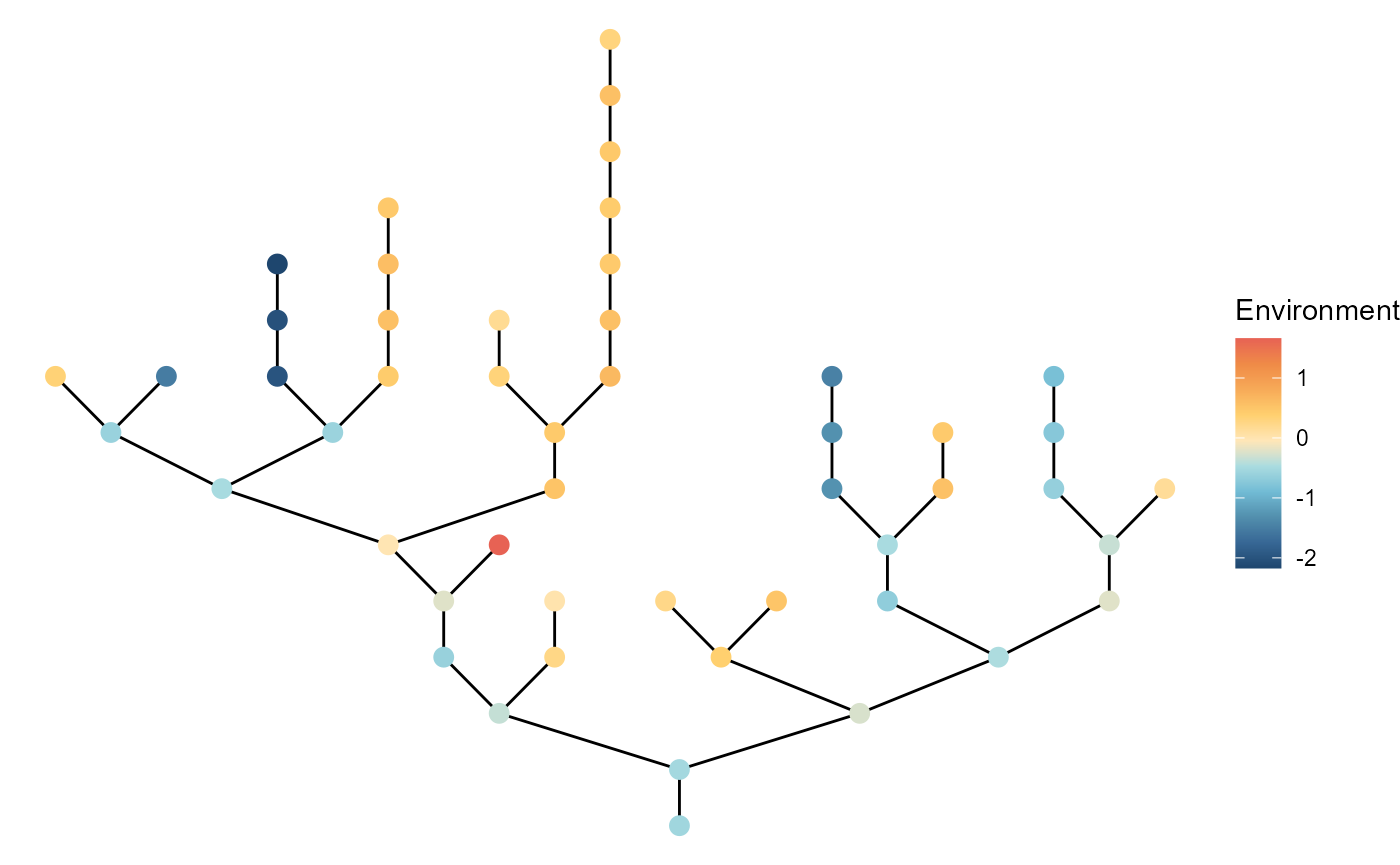
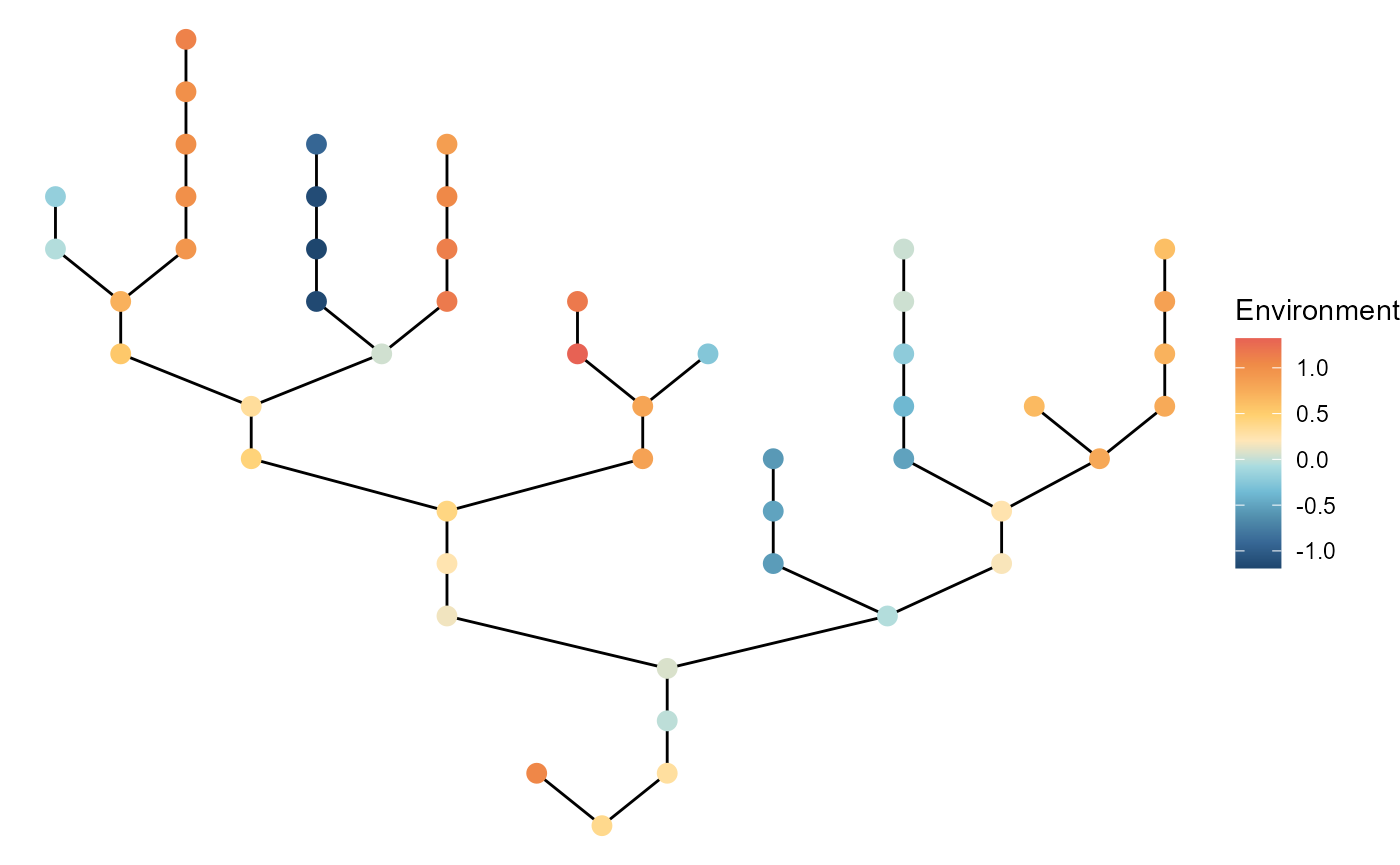
pkgdown

diff --git a/docs/articles/mcsim.html b/docs/articles/mcsim.html
@@ -204,18 +204,18 @@ species that are randomly chosen:</p>
 <code class="sourceCode R"><span><span class="va">mc</span></span>
 <span><span class="co">#&gt; $df_dynamics</span></span>
 <span><span class="co">#&gt; <span style="color: #949494;"># A tibble: 25,000 × 9</span></span></span>
-<span><span class="co">#&gt;    timestep patch_id mean_env     env carrying…¹ species niche…²    r_xt abund…³</span></span>
-<span><span class="co">#&gt;       <span style="color: #949494; font-style: italic;">&lt;dbl&gt;</span>    <span style="color: #949494; font-style: italic;">&lt;dbl&gt;</span>    <span style="color: #949494; font-style: italic;">&lt;dbl&gt;</span>   <span style="color: #949494; font-style: italic;">&lt;dbl&gt;</span>      <span style="color: #949494; font-style: italic;">&lt;dbl&gt;</span>   <span style="color: #949494; font-style: italic;">&lt;dbl&gt;</span>   <span style="color: #949494; font-style: italic;">&lt;dbl&gt;</span>   <span style="color: #949494; font-style: italic;">&lt;dbl&gt;</span>   <span style="color: #949494; font-style: italic;">&lt;dbl&gt;</span></span></span>
-<span><span class="co">#&gt; <span style="color: #BCBCBC;"> 1</span>        1        1        0  0.031<span style="text-decoration: underline;">2</span>        100       1  -<span style="color: #BB0000;">0.683</span> 2.96<span style="color: #949494;">e</span><span style="color: #BB0000;">-1</span>       0</span></span>
-<span><span class="co">#&gt; <span style="color: #BCBCBC;"> 2</span>        1        1        0  0.031<span style="text-decoration: underline;">2</span>        100       2   0.980 3.10<span style="color: #949494;">e</span><span style="color: #BB0000;">-4</span>       0</span></span>
-<span><span class="co">#&gt; <span style="color: #BCBCBC;"> 3</span>        1        1        0  0.031<span style="text-decoration: underline;">2</span>        100       3   0.437 2.62<span style="color: #949494;">e</span>+0      60</span></span>
-<span><span class="co">#&gt; <span style="color: #BCBCBC;"> 4</span>        1        1        0  0.031<span style="text-decoration: underline;">2</span>        100       4  -<span style="color: #BB0000;">0.571</span> 1.28<span style="color: #949494;">e</span>+0       3</span></span>
-<span><span class="co">#&gt; <span style="color: #BCBCBC;"> 5</span>        1        1        0  0.031<span style="text-decoration: underline;">2</span>        100       5   0.827 8.09<span style="color: #949494;">e</span><span style="color: #BB0000;">-1</span>       0</span></span>
-<span><span class="co">#&gt; <span style="color: #BCBCBC;"> 6</span>        1        2        0 -<span style="color: #BB0000;">0.054</span><span style="color: #BB0000; text-decoration: underline;">5</span>        100       1  -<span style="color: #BB0000;">0.683</span> 5.27<span style="color: #949494;">e</span><span style="color: #BB0000;">-1</span>       0</span></span>
-<span><span class="co">#&gt; <span style="color: #BCBCBC;"> 7</span>        1        2        0 -<span style="color: #BB0000;">0.054</span><span style="color: #BB0000; text-decoration: underline;">5</span>        100       2   0.980 5.21<span style="color: #949494;">e</span><span style="color: #BB0000;">-5</span>       0</span></span>
-<span><span class="co">#&gt; <span style="color: #BCBCBC;"> 8</span>        1        2        0 -<span style="color: #BB0000;">0.054</span><span style="color: #BB0000; text-decoration: underline;">5</span>        100       3   0.437 2.31<span style="color: #949494;">e</span>+0      39</span></span>
-<span><span class="co">#&gt; <span style="color: #BCBCBC;"> 9</span>        1        2        0 -<span style="color: #BB0000;">0.054</span><span style="color: #BB0000; text-decoration: underline;">5</span>        100       4  -<span style="color: #BB0000;">0.571</span> 1.69<span style="color: #949494;">e</span>+0       0</span></span>
-<span><span class="co">#&gt; <span style="color: #BCBCBC;">10</span>        1        2        0 -<span style="color: #BB0000;">0.054</span><span style="color: #BB0000; text-decoration: underline;">5</span>        100       5   0.827 5.76<span style="color: #949494;">e</span><span style="color: #BB0000;">-1</span>       0</span></span>
+<span><span class="co">#&gt;    timestep patch_id mean_env    env carrying_…¹ species niche…²    r_xt abund…³</span></span>
+<span><span class="co">#&gt;       <span style="color: #949494; font-style: italic;">&lt;dbl&gt;</span>    <span style="color: #949494; font-style: italic;">&lt;dbl&gt;</span>    <span style="color: #949494; font-style: italic;">&lt;dbl&gt;</span>  <span style="color: #949494; font-style: italic;">&lt;dbl&gt;</span>       <span style="color: #949494; font-style: italic;">&lt;dbl&gt;</span>   <span style="color: #949494; font-style: italic;">&lt;dbl&gt;</span>   <span style="color: #949494; font-style: italic;">&lt;dbl&gt;</span>   <span style="color: #949494; font-style: italic;">&lt;dbl&gt;</span>   <span style="color: #949494; font-style: italic;">&lt;dbl&gt;</span></span></span>
+<span><span class="co">#&gt; <span style="color: #BCBCBC;"> 1</span>        1        1        0 0.019<span style="text-decoration: underline;">7</span>         100       1  -<span style="color: #BB0000;">0.374</span> 2.63         49</span></span>
+<span><span class="co">#&gt; <span style="color: #BCBCBC;"> 2</span>        1        1        0 0.019<span style="text-decoration: underline;">7</span>         100       2   0.345 2.76         50</span></span>
+<span><span class="co">#&gt; <span style="color: #BCBCBC;"> 3</span>        1        1        0 0.019<span style="text-decoration: underline;">7</span>         100       3  -<span style="color: #BB0000;">0.613</span> 2.12         25</span></span>
+<span><span class="co">#&gt; <span style="color: #BCBCBC;"> 4</span>        1        1        0 0.019<span style="text-decoration: underline;">7</span>         100       4  -<span style="color: #BB0000;">0.937</span> 1.48         11</span></span>
+<span><span class="co">#&gt; <span style="color: #BCBCBC;"> 5</span>        1        1        0 0.019<span style="text-decoration: underline;">7</span>         100       5   0.946 0.005<span style="text-decoration: underline;">23</span>       0</span></span>
+<span><span class="co">#&gt; <span style="color: #BCBCBC;"> 6</span>        1        2        0 0.061<span style="text-decoration: underline;">9</span>         100       1  -<span style="color: #BB0000;">0.374</span> 2.47         46</span></span>
+<span><span class="co">#&gt; <span style="color: #BCBCBC;"> 7</span>        1        2        0 0.061<span style="text-decoration: underline;">9</span>         100       2   0.345 2.95         64</span></span>
+<span><span class="co">#&gt; <span style="color: #BCBCBC;"> 8</span>        1        2        0 0.061<span style="text-decoration: underline;">9</span>         100       3  -<span style="color: #BB0000;">0.613</span> 2.04         21</span></span>
+<span><span class="co">#&gt; <span style="color: #BCBCBC;"> 9</span>        1        2        0 0.061<span style="text-decoration: underline;">9</span>         100       4  -<span style="color: #BB0000;">0.937</span> 1.40         13</span></span>
+<span><span class="co">#&gt; <span style="color: #BCBCBC;">10</span>        1        2        0 0.061<span style="text-decoration: underline;">9</span>         100       5   0.946 0.009<span style="text-decoration: underline;">41</span>       0</span></span>
 <span><span class="co">#&gt; <span style="color: #949494;"># … with 24,990 more rows, and abbreviated variable names ¹carrying_capacity,</span></span></span>
 <span><span class="co">#&gt; <span style="color: #949494;">#   ²niche_optim, ³abundance</span></span></span>
 <span><span class="co">#&gt; </span></span>
@@ -223,45 +223,45 @@ species that are randomly chosen:</p>
 <span><span class="co">#&gt; <span style="color: #949494;"># A tibble: 5 × 6</span></span></span>
 <span><span class="co">#&gt;   species mean_abundance    r0 niche_optim sd_niche_width p_dispersal</span></span>
 <span><span class="co">#&gt;     <span style="color: #949494; font-style: italic;">&lt;dbl&gt;</span>          <span style="color: #949494; font-style: italic;">&lt;dbl&gt;</span> <span style="color: #949494; font-style: italic;">&lt;dbl&gt;</span>       <span style="color: #949494; font-style: italic;">&lt;dbl&gt;</span>          <span style="color: #949494; font-style: italic;">&lt;dbl&gt;</span>       <span style="color: #949494; font-style: italic;">&lt;dbl&gt;</span></span></span>
-<span><span class="co">#&gt; <span style="color: #BCBCBC;">1</span>       1           0        4      -<span style="color: #BB0000;">0.683</span>          0.316         0.1</span></span>
-<span><span class="co">#&gt; <span style="color: #BCBCBC;">2</span>       2           0        4       0.980          0.218         0.1</span></span>
-<span><span class="co">#&gt; <span style="color: #BCBCBC;">3</span>       3          48.5      4       0.437          0.549         0.1</span></span>
-<span><span class="co">#&gt; <span style="color: #BCBCBC;">4</span>       4           9.27     4      -<span style="color: #BB0000;">0.571</span>          0.415         0.1</span></span>
-<span><span class="co">#&gt; <span style="color: #BCBCBC;">5</span>       5           0        4       0.827          0.460         0.1</span></span>
+<span><span class="co">#&gt; <span style="color: #BCBCBC;">1</span>       1           55.0     4      -<span style="color: #BB0000;">0.374</span>          0.528         0.1</span></span>
+<span><span class="co">#&gt; <span style="color: #BCBCBC;">2</span>       2           53.1     4       0.345          0.437         0.1</span></span>
+<span><span class="co">#&gt; <span style="color: #BCBCBC;">3</span>       3           37.3     4      -<span style="color: #BB0000;">0.613</span>          0.834         0.1</span></span>
+<span><span class="co">#&gt; <span style="color: #BCBCBC;">4</span>       4           15.3     4      -<span style="color: #BB0000;">0.937</span>          0.852         0.1</span></span>
+<span><span class="co">#&gt; <span style="color: #BCBCBC;">5</span>       5            0       4       0.946          0.255         0.1</span></span>
 <span><span class="co">#&gt; </span></span>
 <span><span class="co">#&gt; $df_patch</span></span>
 <span><span class="co">#&gt; <span style="color: #949494;"># A tibble: 5 × 5</span></span></span>
 <span><span class="co">#&gt;   patch_id alpha_div mean_env carrying_capacity disturbance</span></span>
 <span><span class="co">#&gt;      <span style="color: #949494; font-style: italic;">&lt;dbl&gt;</span>     <span style="color: #949494; font-style: italic;">&lt;dbl&gt;</span>    <span style="color: #949494; font-style: italic;">&lt;dbl&gt;</span>             <span style="color: #949494; font-style: italic;">&lt;dbl&gt;</span>       <span style="color: #949494; font-style: italic;">&lt;dbl&gt;</span></span></span>
-<span><span class="co">#&gt; <span style="color: #BCBCBC;">1</span>        1      2.00        0               100           0</span></span>
-<span><span class="co">#&gt; <span style="color: #BCBCBC;">2</span>        2      1.68        0               100           0</span></span>
-<span><span class="co">#&gt; <span style="color: #BCBCBC;">3</span>        3      1.94        0               100           0</span></span>
-<span><span class="co">#&gt; <span style="color: #BCBCBC;">4</span>        4      1.29        0               100           0</span></span>
-<span><span class="co">#&gt; <span style="color: #BCBCBC;">5</span>        5      2.00        0               100           0</span></span>
+<span><span class="co">#&gt; <span style="color: #BCBCBC;">1</span>        1      4           0               100           0</span></span>
+<span><span class="co">#&gt; <span style="color: #BCBCBC;">2</span>        2      3.98        0               100           0</span></span>
+<span><span class="co">#&gt; <span style="color: #BCBCBC;">3</span>        3      4           0               100           0</span></span>
+<span><span class="co">#&gt; <span style="color: #BCBCBC;">4</span>        4      3.99        0               100           0</span></span>
+<span><span class="co">#&gt; <span style="color: #BCBCBC;">5</span>        5      4           0               100           0</span></span>
 <span><span class="co">#&gt; </span></span>
 <span><span class="co">#&gt; $df_diversity</span></span>
 <span><span class="co">#&gt; <span style="color: #949494;"># A tibble: 1 × 3</span></span></span>
 <span><span class="co">#&gt;   alpha_div beta_div gamma_div</span></span>
 <span><span class="co">#&gt;       <span style="color: #949494; font-style: italic;">&lt;dbl&gt;</span>    <span style="color: #949494; font-style: italic;">&lt;dbl&gt;</span>     <span style="color: #949494; font-style: italic;">&lt;dbl&gt;</span></span></span>
-<span><span class="co">#&gt; <span style="color: #BCBCBC;">1</span>      1.78     1.12         2</span></span>
+<span><span class="co">#&gt; <span style="color: #BCBCBC;">1</span>      4.00     1.00         4</span></span>
 <span><span class="co">#&gt; </span></span>
 <span><span class="co">#&gt; $df_xy_coord</span></span>
 <span><span class="co">#&gt; <span style="color: #949494;"># A tibble: 5 × 2</span></span></span>
 <span><span class="co">#&gt;   x_coord y_coord</span></span>
 <span><span class="co">#&gt;     <span style="color: #949494; font-style: italic;">&lt;dbl&gt;</span>   <span style="color: #949494; font-style: italic;">&lt;dbl&gt;</span></span></span>
-<span><span class="co">#&gt; <span style="color: #BCBCBC;">1</span>    4.21   0.262</span></span>
-<span><span class="co">#&gt; <span style="color: #BCBCBC;">2</span>    3.30   4.23 </span></span>
-<span><span class="co">#&gt; <span style="color: #BCBCBC;">3</span>    6.16   0.154</span></span>
-<span><span class="co">#&gt; <span style="color: #BCBCBC;">4</span>    3.76   8.32 </span></span>
-<span><span class="co">#&gt; <span style="color: #BCBCBC;">5</span>    3.79   0.311</span></span>
+<span><span class="co">#&gt; <span style="color: #BCBCBC;">1</span>    7.50    7.16</span></span>
+<span><span class="co">#&gt; <span style="color: #BCBCBC;">2</span>    2.61    3.58</span></span>
+<span><span class="co">#&gt; <span style="color: #BCBCBC;">3</span>    7.47    3.43</span></span>
+<span><span class="co">#&gt; <span style="color: #BCBCBC;">4</span>    1.63    7.84</span></span>
+<span><span class="co">#&gt; <span style="color: #BCBCBC;">5</span>    7.97    1.03</span></span>
 <span><span class="co">#&gt; </span></span>
 <span><span class="co">#&gt; $distance_matrix</span></span>
-<span><span class="co">#&gt;           1        2        3        4         5</span></span>
-<span><span class="co">#&gt; 1 0.0000000 4.067533 1.955705 8.066763 0.4199827</span></span>
-<span><span class="co">#&gt; 2 4.0675332 0.000000 4.979205 4.116760 3.9465953</span></span>
-<span><span class="co">#&gt; 3 1.9557049 4.979205 0.000000 8.508382 2.3750608</span></span>
-<span><span class="co">#&gt; 4 8.0667635 4.116760 8.508382 0.000000 8.0059085</span></span>
-<span><span class="co">#&gt; 5 0.4199827 3.946595 2.375061 8.005908 0.0000000</span></span>
+<span><span class="co">#&gt;          1        2        3        4        5</span></span>
+<span><span class="co">#&gt; 1 0.000000 6.059166 3.729789 5.906923 6.146285</span></span>
+<span><span class="co">#&gt; 2 6.059166 0.000000 4.861495 4.368958 5.933040</span></span>
+<span><span class="co">#&gt; 3 3.729789 4.861495 0.000000 7.315403 2.449951</span></span>
+<span><span class="co">#&gt; 4 5.906923 4.368958 7.315403 0.000000 9.299712</span></span>
+<span><span class="co">#&gt; 5 6.146285 5.933040 2.449951 9.299712 0.000000</span></span>
 <span><span class="co">#&gt; </span></span>
 <span><span class="co">#&gt; $interaction_matrix</span></span>
 <span><span class="co">#&gt;      [,1] [,2] [,3] [,4] [,5]</span></span>

diff --git a/docs/articles/brnet.html b/docs/articles/brnet.html
@@ -453,8 +453,7 @@ barriers; in this case, the user must specify the passabilities of
 individual barriers separately (as a vector with length
 <code>n_barrier</code>). The barrier effect is cumulative. For example,
 if one passes two barriers A (passability = <span class="math inline">\(p_A\)</span>) and B (passability <span class="math inline">\(p_B\)</span>) when moving from a given node node
-to another node, the original movement probability <span class="math inline">\(m\)</span> will be <span class="math inline">\(m
-p_Ap_B\)</span>.</p>
+to another node, the original movement probability <span class="math inline">\(m\)</span> will be reduced to <span class="math inline">\(m p_Ap_B\)</span>.</p>
 <p>Just like <code><a href="../reference/ptsource.html">ptsource()</a></code>, this function will take an output
 from <code><a href="../reference/brnet.html">brnet()</a></code> function but also accepts any adjacency
 matrix. <code><a href="../reference/ggbrnet.html">ggbrnet()</a></code> will help you visualize fragmented edges
